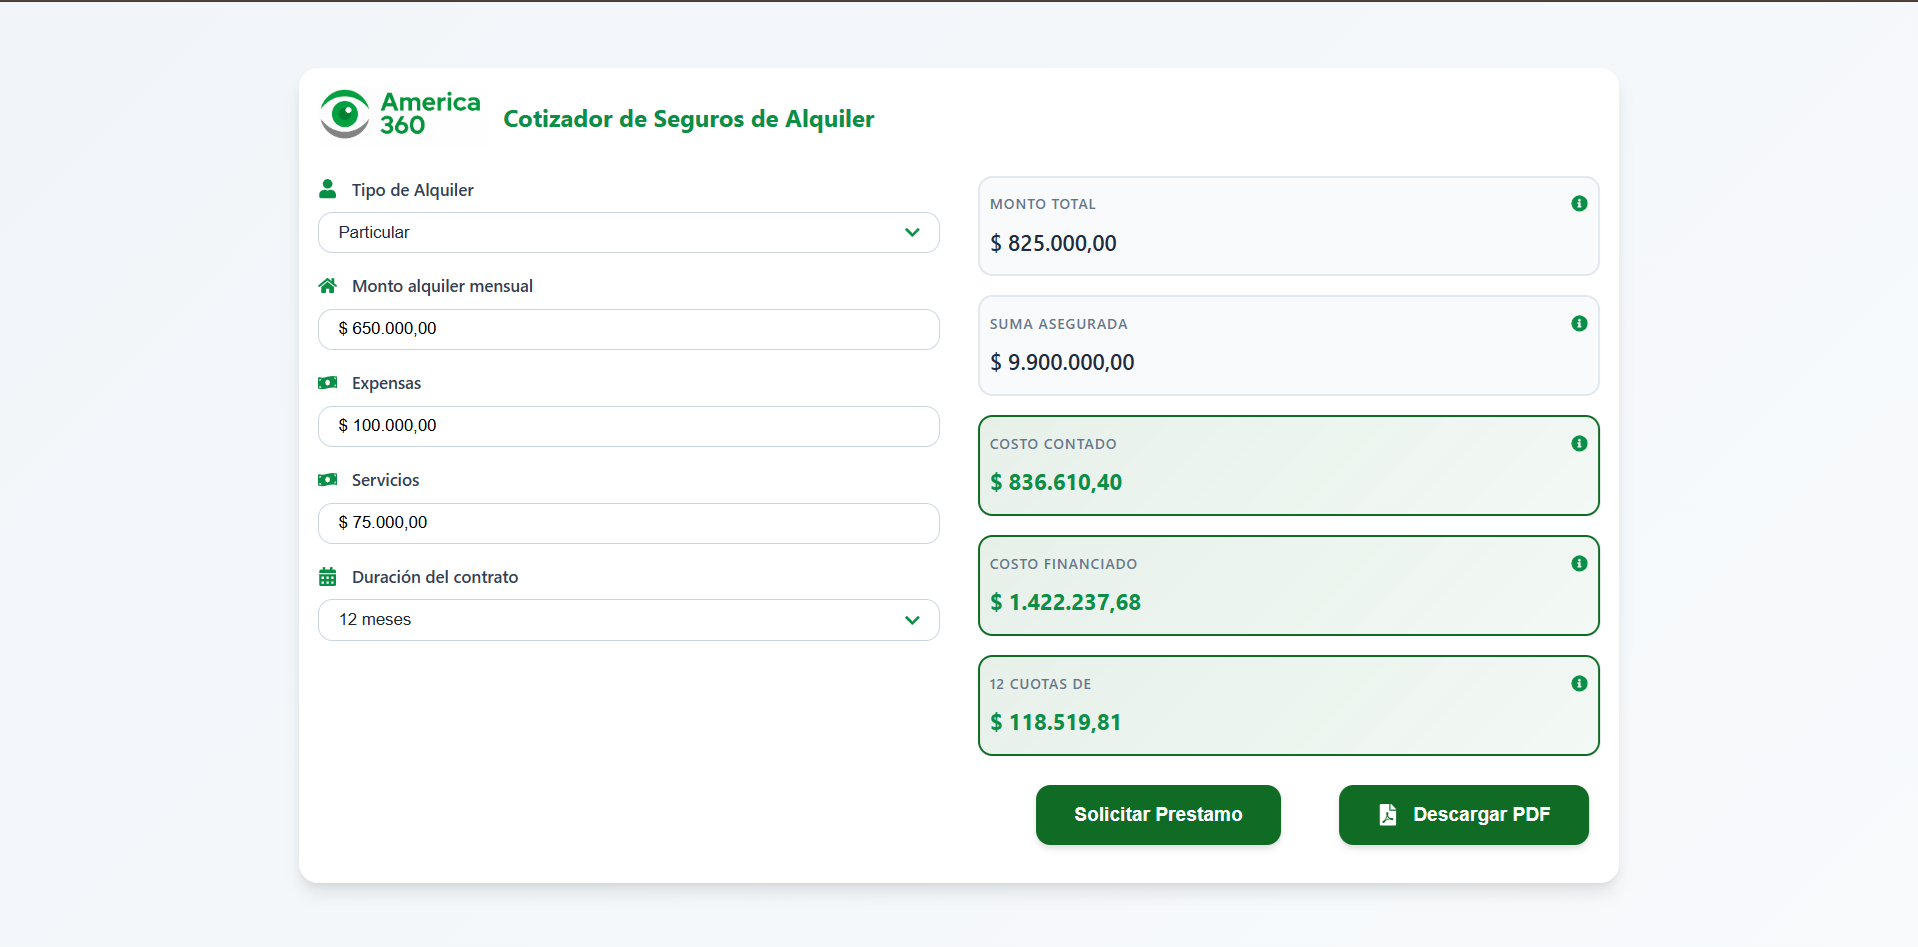
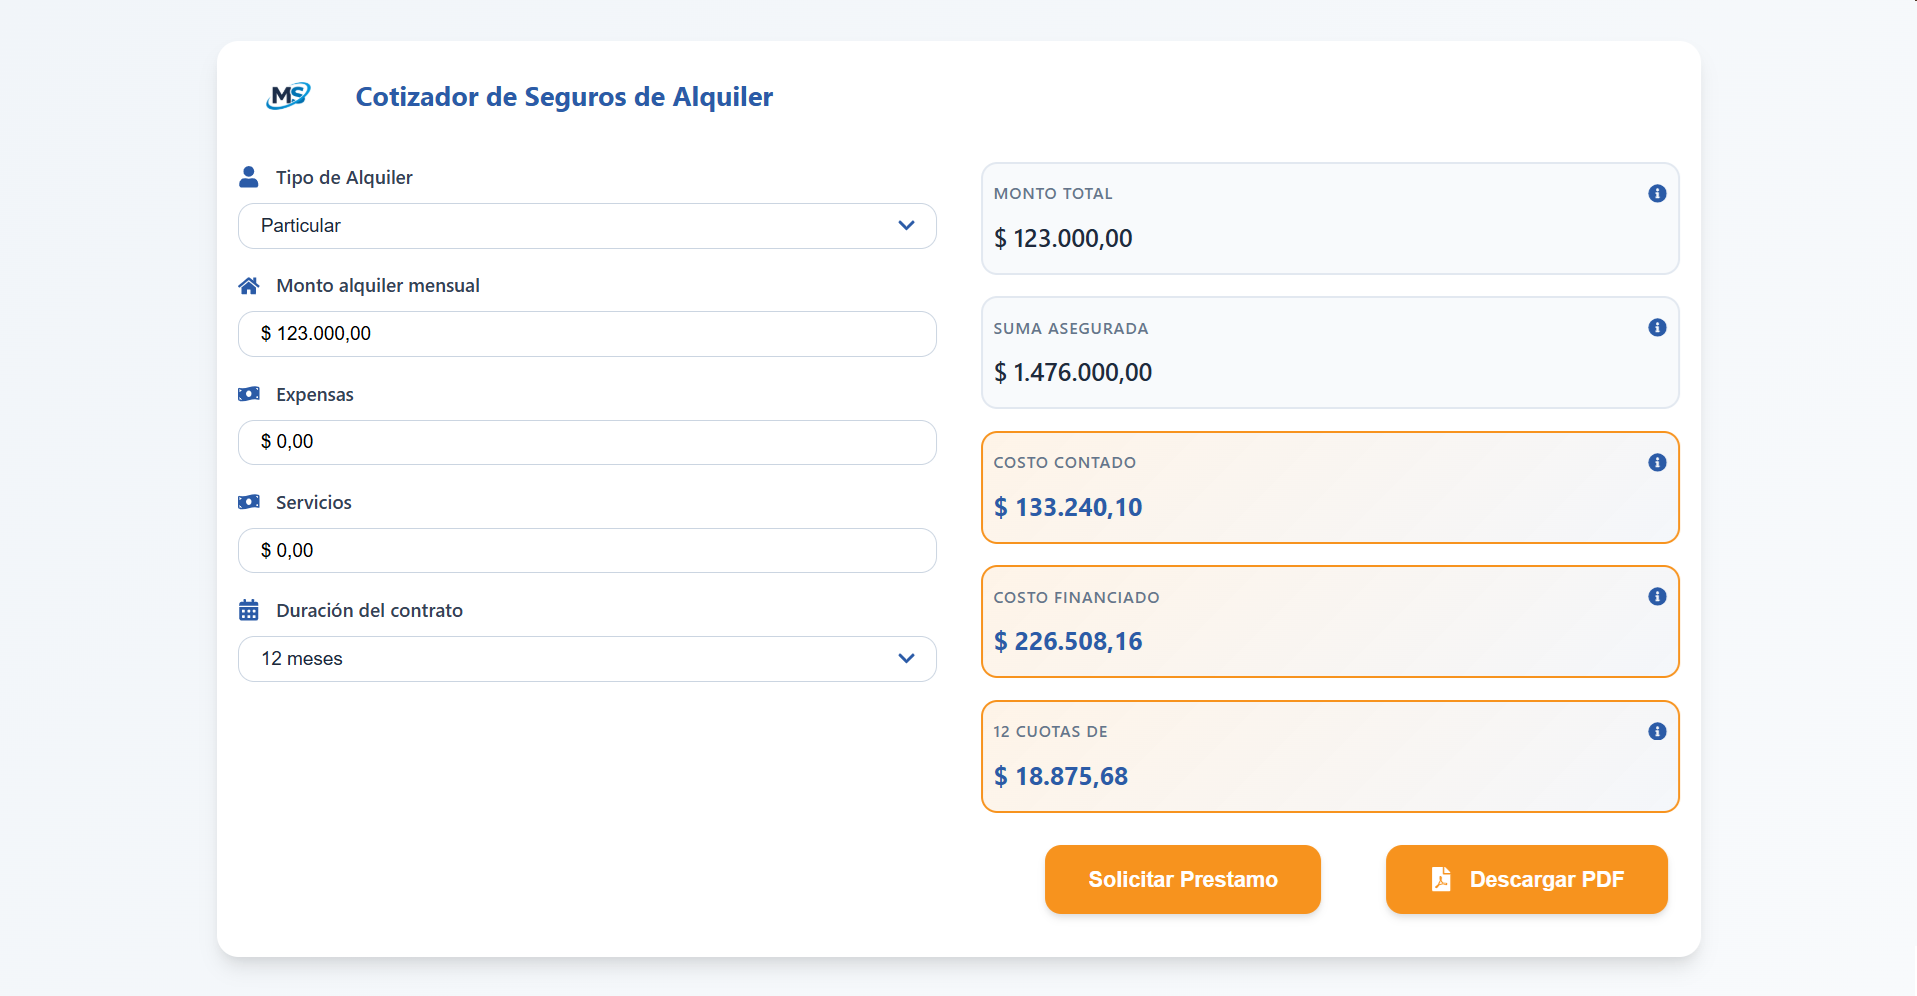
Fix: Nueva imagen Cotizador y links git / linkedin

diff --git a/src/App.js b/src/App.js
@@ -23,7 +23,7 @@ function AppContent() {
   const socialLinks = [
     {
       label: 'GitHub',
-      href: 'https://https://github.com/Mateosacco99/',
+      href: 'https://github.com/Mateosacco99/',
       icon: (
         <svg className="w-6 h-6" fill="currentColor" viewBox="0 0 24 24">
           <path fillRule="evenodd" d="M12 2C6.477 2 2 6.484 2 12.017c0 4.425 2.865 8.18 6.839 9.504.5.092.682-.217.682-.483 0-.237-.008-.868-.013-1.703-2.782.605-3.369-1.343-3.369-1.343-.454-1.158-1.11-1.466-1.11-1.466-.908-.62.069-.608.069-.608 1.003.07 1.531 1.032 1.531 1.032.892 1.53 2.341 1.088 2.91.832.092-.647.35-1.088.636-1.338-2.22-.253-4.555-1.113-4.555-4.951 0-1.093.39-1.988 1.029-2.688-.103-.253-.446-1.272.098-2.65 0 0 .84-.27 2.75 1.026A9.564 9.564 0 0112 6.844c.85.004 1.705.115 2.504.337 1.909-1.296 2.747-1.027 2.747-1.027.546 1.379.202 2.398.1 2.651.64.7 1.028 1.595 1.028 2.688 0 3.848-2.339 4.695-4.566 4.943.359.309.678.92.678 1.855 0 1.338-.012 2.419-.012 2.747 0 .268.18.58.688.482A10.019 10.019 0 0022 12.017C22 6.484 17.522 2 12 2z" clipRule="evenodd" />
@@ -32,7 +32,7 @@ function AppContent() {
     },
     {
       label: 'LinkedIn',
-      href: 'https://https://www.linkedin.com/in/mateosacco99/',
+      href: 'https://www.linkedin.com/in/mateosacco99/',
       icon: (
         <svg className="w-6 h-6" fill="currentColor" viewBox="0 0 24 24">
           <path d="M20.447 20.452h-3.554v-5.569c0-1.328-.027-3.037-1.852-3.037-1.853 0-2.136 1.445-2.136 2.939v5.667H9.351V9h3.414v1.561h.046c.477-.9 1.637-1.85 3.37-1.85 3.601 0 4.267 2.37 4.267 5.455v6.286zM5.337 7.433c-1.144 0-2.063-.926-2.063-2.065 0-1.138.92-2.063 2.063-2.063 1.14 0 2.064.925 2.064 2.063 0 1.139-.925 2.065-2.064 2.065zm1.782 13.019H3.555V9h3.564v11.452zM22.225 0H1.771C.792 0 0 .774 0 1.729v20.542C0 23.227.792 24 1.771 24h20.451C23.2 24 24 23.227 24 22.271V1.729C24 .774 23.2 0 22.222 0h.003z"/>
